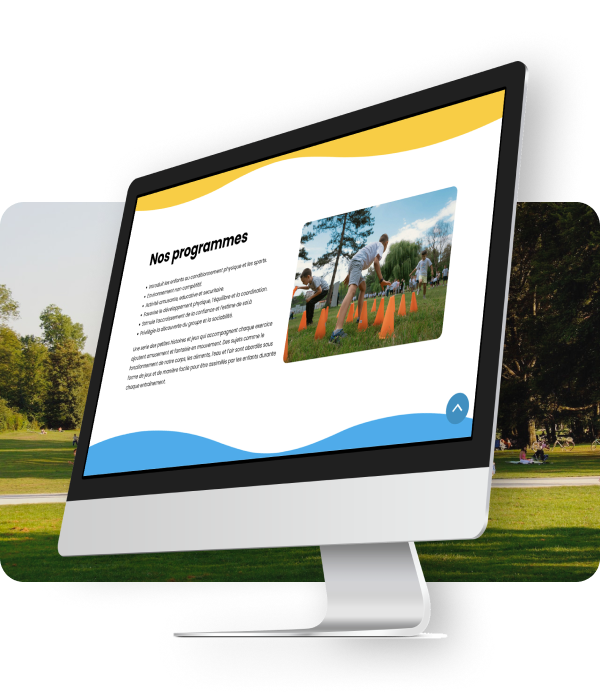
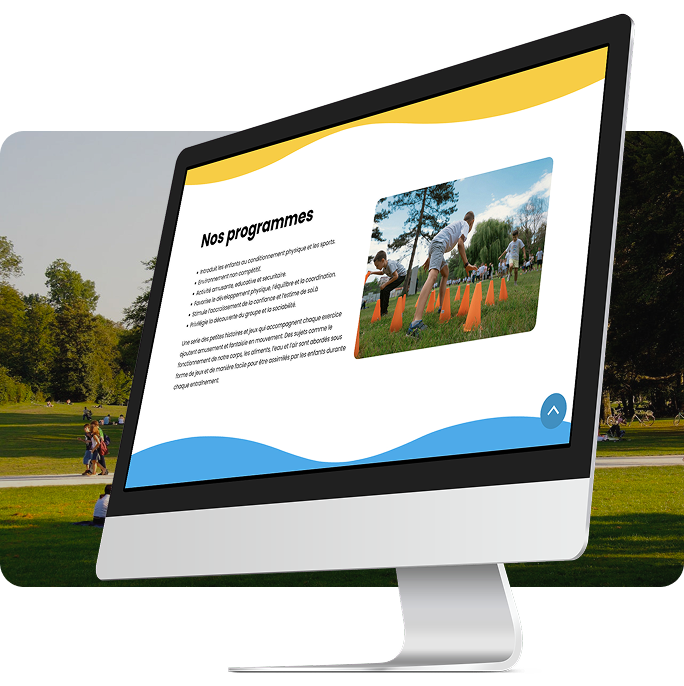
Ajustements scroll horizontal sur toutes les sections  + images modifier

diff --git a/src/scripts/components/Scroller.js b/src/scripts/components/Scroller.js
@@ -72,26 +72,25 @@ export default class Scroller {
   // SECTION HORIZONTAL
 
   initHoriz() {
-    const sectionHoriz = this.element.querySelector('.js-horiz');
+    const sectionsHoriz = this.element.querySelectorAll('.js-horiz');
+    
+    sectionsHoriz.forEach((sectionHoriz) => {
+      const panels = sectionHoriz.querySelectorAll('.js-panel');
+      const nbPanels = panels.length - 1;
+      const buffer = 200;
 
-    // QuerySelectorAll Horiz
-    // Boucler dans les sections
-    // createHoriz
-
-    const panels = sectionHoriz.querySelectorAll('.js-panel');
-    const nbPanels = panels.length - 1;
-    const buffer = 200;
-
-    gsap.to(panels, {
-      xPercent: -100 * nbPanels,
-      ease: 'none',
-      scrollTrigger: {
-        pin: true,
-        trigger: sectionHoriz,
-        scrub: 1,
-        snap: 1 / nbPanels,
-        end: () => '+=' + (sectionHoriz.offsetWidth + buffer),
-      },
+      gsap.to(panels, {
+        xPercent: -100 * nbPanels,
+        ease: 'none',
+        scrollTrigger: {
+          pin: true,
+          trigger: sectionHoriz,
+          scrub: 1,
+          snap: 1 / nbPanels,
+          end: () => '+=' + (sectionHoriz.offsetWidth + buffer),
+          markers: false,
+        },
+      });
     });
   }
 

diff --git a/src/styles/components/projects.scss b/src/styles/components/projects.scss
@@ -20,7 +20,9 @@
     }
 
     .projects__media {
-        display: flex;
+        display: grid;
+        grid-template-columns: 1fr 1fr 1fr;
+        align-items: center;
         gap: var(--spacing-md);
         padding-bottom: 150px;
 
@@ -120,23 +122,33 @@
 .section--horiz {
     display: flex;
     overflow: hidden;
+    width: 100%;
 
     .wrapper {
         flex-direction: column;
         gap: 0;
+        width: 100%;
     }
 
     .cards {
         display: flex;
         gap: var(--spacing-md);
         padding-top: var(--spacing-md);
+        width: max-content;
+
+        .card__media img{
+            object-fit: cover;
+            width: 100%;
+            max-height: 684px;
+        }
     }
 
     .section__content {
-        width: 100%;
+        width: 100vw;
         display: flex;
         align-items: center;
         flex-shrink: 0;
+        padding: 0 var(--spacing-xl);
     }
 }
 .img {

diff --git a/src/projects.html b/src/projects.html
@@ -2,7 +2,7 @@
     <div id="smooth-content">
         {% include '_partials/_header.html' %}
 
-        <section class="section section--horiz js-horiz">
+        <section class="section section--horiz js-horiz" id="design">
             <div class="wrapper">
                 <h2>
                     Projets
@@ -61,7 +61,7 @@
             </div>
         </section>
 
-        <section class="section section--horiz js-horiz">
+        <section class="section section--horiz js-horiz" id="web">
             <div class="wrapper">
                 <h2>
                     Projets
@@ -119,7 +119,7 @@
             </div>
         </section>
 
-        <section class="section section--horiz js-horiz">
+        <section class="section section--horiz js-horiz" id="video">
             <div class="wrapper">
                 <h2>
                     Projets
